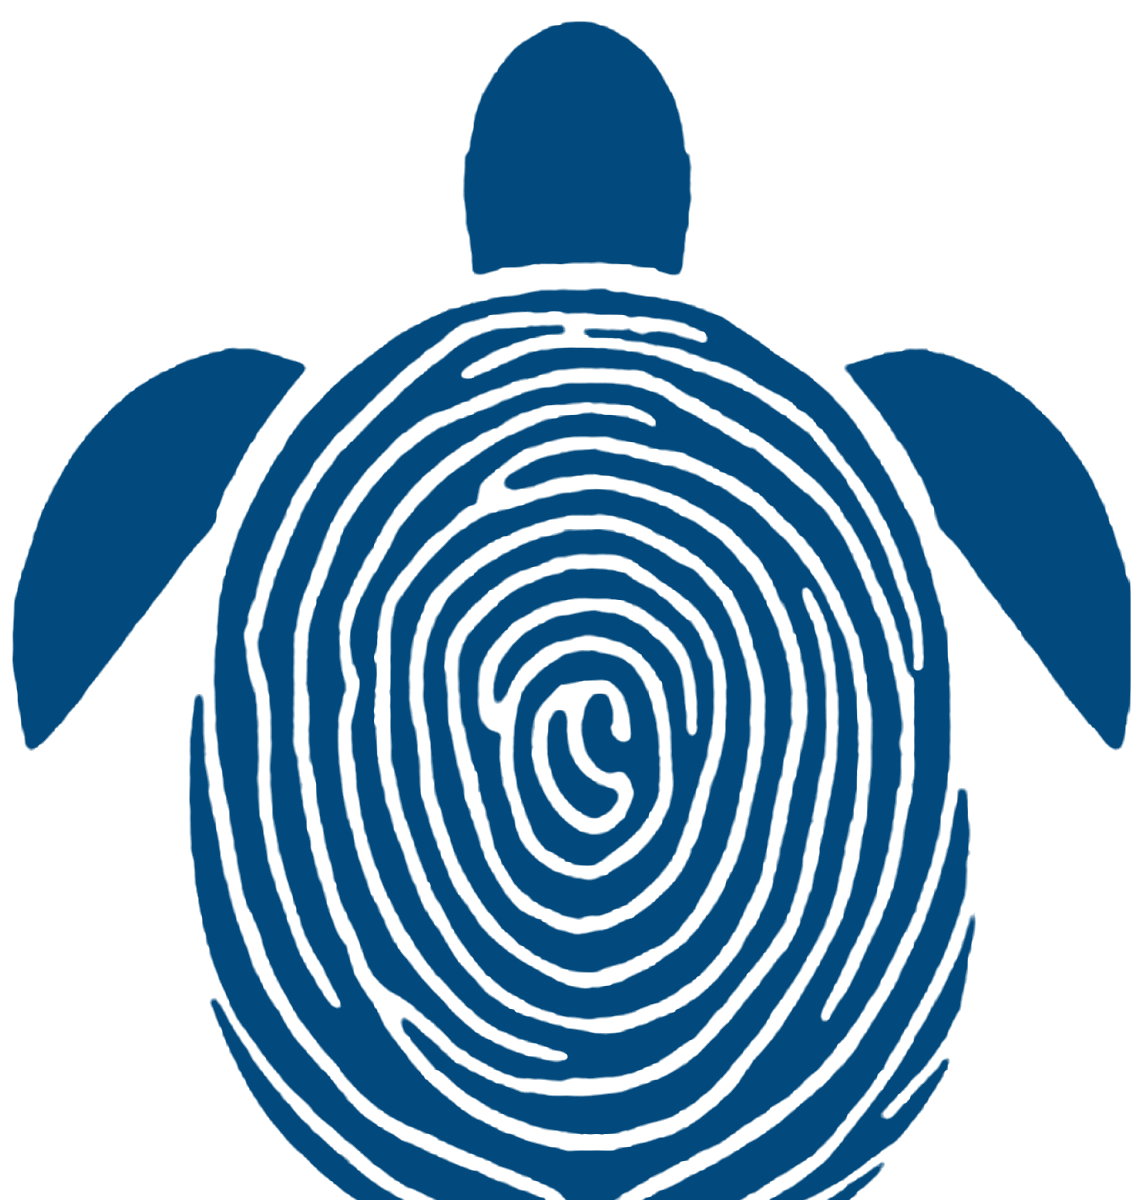
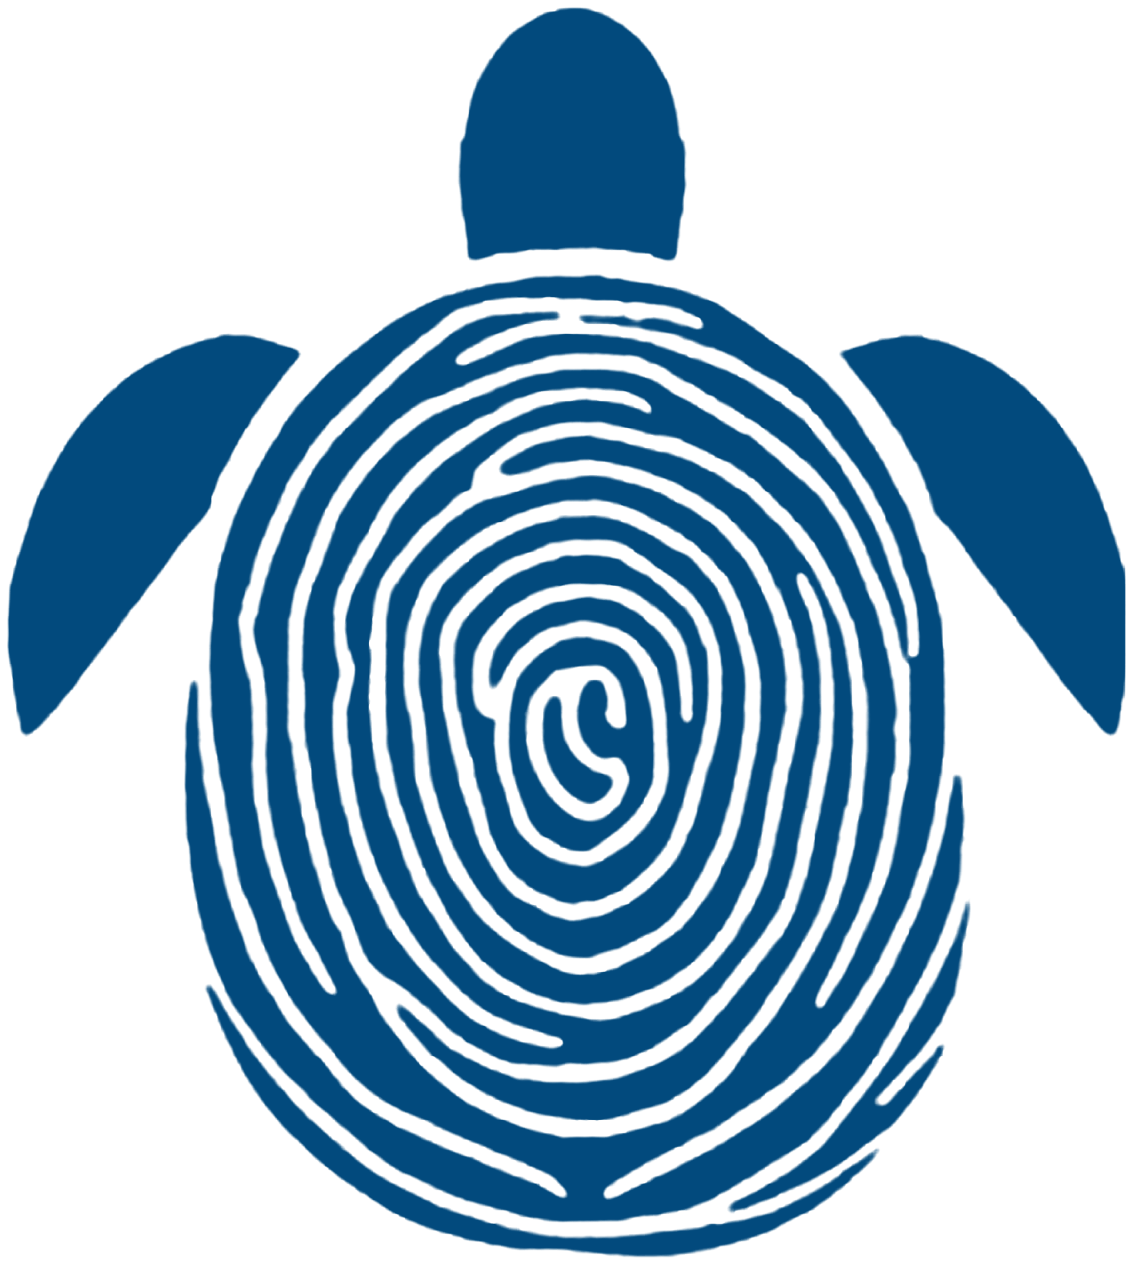
Refactor code structure for improved readability and maintainability

diff --git a/tests/e2e/page.spec.js b/tests/e2e/page.spec.js
@@ -17,7 +17,12 @@ const maxScroll = (page) => page.evaluate(() => document.documentElement.scrollH
 const panelState = (page) => page.evaluate(() => {
   const vh = window.innerHeight;
   const panels = [...document.querySelectorAll('.panel')];
-  const hit = document.elementFromPoint(window.innerWidth / 2, vh / 2)?.closest('.panel');
+  // Punto de muestreo lejos de cualquier borde: con tops fraccionarios el
+  // navegador redondea el píxel y el borde exacto da un resultado ambiguo
+  const edges = panels.flatMap((p) => { const r = p.getBoundingClientRect(); return [r.top, r.bottom]; });
+  let probe = vh / 2;
+  while (edges.some((e) => Math.abs(e - probe) < 2)) probe += 4;
+  const hit = document.elementFromPoint(window.innerWidth / 2, probe)?.closest('.panel');
   return {
     onScreen: panels.filter((p) => {
       const r = p.getBoundingClientRect();
@@ -28,7 +33,7 @@ const panelState = (page) => page.evaluate(() => {
     // El panel de mayor índice que cubre el centro debe ser el que se ve
     expected: panels.reduce((acc, p, i) => {
       const r = p.getBoundingClientRect();
-      return r.top <= vh / 2 && r.bottom >= vh / 2 ? i : acc;
+      return r.top <= probe && r.bottom >= probe ? i : acc;
     }, -1),
   };
 });
@@ -97,6 +102,9 @@ test('no hay scroll horizontal', async ({ page }) => {
 });
 
 test('la pila nunca acumula capas ni pinta un panel en el orden equivocado', async ({ page }) => {
+  // Recorre la página entera a pasos de un tercio de pantalla: en WebKit y con
+  // todos los proyectos en paralelo puede pasar del minuto y medio
+  test.slow();
   const zIndex = await page.$$eval('.panel', (panels) => panels.map((p) => Number(getComputedStyle(p).zIndex)));
   expect(zIndex).toEqual(zIndex.map((_, i) => i + 1));
 
@@ -261,5 +269,123 @@ test('con movimiento reducido no hay transformaciones de pila', async ({ page },
     await scrollToY(page, y);
     const transforms = await page.$$eval('.panel', (panels) => panels.map((p) => p.style.transform).filter(Boolean));
     expect(transforms, `y=${y}`).toEqual([]);
+  }
+});
+
+test('el símbolo de la tortuga se ve entero en todas partes', async ({ page }) => {
+  const selector = 'img[src*="turtle-"], img[src*="wordmark-"]';
+  // Posición de cada imagen con la página arriba, antes de que nada se fije
+  const targets = await page.$$eval(selector, (imgs) => imgs.map((img) => {
+    img.loading = 'eager';
+    const panel = img.closest('.panel');
+    if (!panel) return 0;
+    const top = panel.offsetTop;
+    const inner = img.getBoundingClientRect().top - panel.getBoundingClientRect().top;
+    const room = Math.max(0, panel.offsetHeight - window.innerHeight);
+    // Centra la imagen sin salir del tramo en el que su panel está fijo y entero
+    return top + Math.min(room, Math.max(0, inner - window.innerHeight / 2));
+  }));
+  // Tres símbolos sueltos y cuatro logotipos
+  expect(targets).toHaveLength(7);
+
+  for (const [i, y] of targets.entries()) {
+    await scrollToY(page, y);
+    const { src, edgeAlpha, ratio, clippedBy } = await page.evaluate(async ([sel, n]) => {
+      const img = document.querySelectorAll(sel)[n];
+      await img.decode().catch(() => null);
+
+      // El dibujo no toca ningún borde del archivo: si lo hiciera, estaría recortado
+      const c = document.createElement('canvas');
+      c.width = img.naturalWidth;
+      c.height = img.naturalHeight;
+      const ctx = c.getContext('2d');
+      ctx.drawImage(img, 0, 0);
+      const { width: w, height: h } = c;
+      const edges = [[0, 0, w, 1], [0, h - 1, w, 1], [0, 0, 1, h], [w - 1, 0, 1, h]];
+      const edgeAlpha = Math.max(...edges.map(([x, y, ew, eh]) => {
+        const d = ctx.getImageData(x, y, ew, eh).data;
+        let max = 0;
+        for (let k = 3; k < d.length; k += 4) max = Math.max(max, d[k]);
+        return max;
+      }));
+
+      // Se pinta con su proporción y ningún contenedor con overflow lo corta
+      const r = img.getBoundingClientRect();
+      const visible = r.width > 0 && r.height > 0;
+      const ratio = visible ? (r.width / r.height) / (img.naturalWidth / img.naturalHeight) : 1;
+      const clippedBy = [];
+      for (let el = img.parentElement; visible && el && el !== document.body; el = el.parentElement) {
+        const s = getComputedStyle(el);
+        if (s.overflowX === 'visible' && s.overflowY === 'visible') continue;
+        const b = el.getBoundingClientRect();
+        if (r.left < b.left - 1 || r.right > b.right + 1 || r.top < b.top - 1 || r.bottom > b.bottom + 1) clippedBy.push(el.className);
+      }
+      return { src: img.getAttribute('src'), edgeAlpha, ratio, clippedBy };
+    }, [selector, i]);
+
+    expect(edgeAlpha, src).toBeLessThan(8);
+    // Margen para el redondeo de los iconos pequeños
+    expect(Math.abs(ratio - 1), src).toBeLessThan(0.04);
+    expect(clippedBy, src).toEqual([]);
+  }
+});
+
+test('los materiales muestran sus tres muestras con foto', async ({ page }) => {
+  const cards = page.locator('.material');
+  await expect(cards).toHaveCount(3);
+  await expect(cards.locator('h3')).toHaveText(['PEAD + Residuo marino', 'Lana', 'Filtro de celulosa']);
+  await expect(page.locator('.materials')).not.toContainText('Plástico recuperado');
+  await expect(cards.nth(2)).toContainText('liofilización');
+
+  const top = await page.$eval('.materials', (el) => el.offsetTop);
+  await scrollToY(page, top);
+  const report = await page.evaluate(async () => {
+    const cards = [...document.querySelectorAll('.material')];
+    const imgs = cards.map((c) => c.querySelector('img.material__texture'));
+    for (const img of imgs) img.loading = 'eager';
+    await Promise.all(imgs.map((img) => img?.decode().catch(() => null)));
+    return cards.map((card, i) => {
+      // Medidas de maquetación: la animación de entrada desplaza las tarjetas
+      const box = { left: card.offsetLeft, top: card.offsetTop, width: card.offsetWidth, height: card.offsetHeight };
+      const copy = card.querySelector('.material__copy');
+      const img = imgs[i];
+      return {
+        src: img.getAttribute('src'),
+        loaded: img.naturalWidth > 0,
+        fit: getComputedStyle(img).objectFit,
+        // La foto llena la tarjeta y el texto cabe dentro
+        fills: img.offsetWidth === box.width && img.offsetHeight === box.height,
+        copyInside: copy.offsetTop >= 0 && copy.offsetTop + copy.offsetHeight <= box.height,
+        box,
+      };
+    });
+  });
+
+  expect(report.map((r) => r.src)).toEqual([
+    'assets/img/material-pead.webp',
+    'assets/img/material-wool.webp',
+    'assets/img/material-cellulose.webp',
+  ]);
+  for (const r of report) expect(r).toMatchObject({ loaded: true, fit: 'cover', fills: true, copyInside: true });
+
+  // La lana a la derecha del PEAD y la celulosa a la derecha de la lana (escritorio),
+  // debajo ocupando todo el ancho (tablet) o en una sola columna (móvil)
+  const [pead, wool, cell] = report.map((r) => r.box);
+  const width = page.viewportSize().width;
+  if (width > 760) {
+    expect(wool.top).toBe(pead.top);
+    expect(wool.left).toBeGreaterThan(pead.left);
+  }
+  if (width > 1100) {
+    expect(cell.top).toBe(wool.top);
+    expect(cell.left).toBeGreaterThan(wool.left);
+  } else if (width > 760) {
+    expect(cell.top).toBeGreaterThan(pead.top);
+    expect(cell.left).toBe(pead.left);
+    expect(cell.width).toBeGreaterThan(pead.width * 1.8);
+  } else {
+    expect(new Set([pead.left, wool.left, cell.left]).size).toBe(1);
+    expect(wool.top).toBeGreaterThan(pead.top);
+    expect(cell.top).toBeGreaterThan(wool.top);
   }
 });

diff --git a/index.html b/index.html
@@ -47,7 +47,7 @@
   <header class="nav" id="nav">
     <div class="nav__inner">
       <a href="#top" class="nav__brand" aria-label="N’Orla, inicio">
-        <img src="assets/img/wordmark-blue.png" alt="N’Orla" width="1035" height="300">
+        <img src="assets/img/wordmark-blue.png" alt="N’Orla" width="1026" height="315">
       </a>
       <nav class="nav__links" id="nav-links" aria-label="Secciones">
         <a href="#orilla">La orilla</a>
@@ -69,7 +69,7 @@
       <div class="panel__body hero__inner">
         <div class="hero__copy" data-hero-copy>
           <h1 class="hero__title intro" id="hero-title">
-            <img src="assets/img/wordmark-blue.png" alt="N’Orla" width="1035" height="300">
+            <img src="assets/img/wordmark-blue.png" alt="N’Orla" width="1026" height="315">
           </h1>
           <p class="hero__tag intro">Donde la vida anida</p>
           <p class="hero__lead intro">Una nueva forma de cuidar la&nbsp;orilla.</p>
@@ -162,7 +162,7 @@
         <figure class="care__figure reveal">
           <img src="assets/img/hatchling-hand.webp" alt="Cría de tortuga marina con arena sobre la palma de una mano" loading="lazy">
           <figcaption>
-            <img src="assets/img/turtle-white.png" alt="" width="1140" height="1200" loading="lazy">
+            <img src="assets/img/turtle-white.png" alt="" width="1133" height="1264" loading="lazy">
             Especialmente donde la vida anida.
           </figcaption>
         </figure>
@@ -201,7 +201,7 @@
             <li data-node style="--a:4"><span>N’Orla</span></li>
           </ol>
           <div class="ring__center">
-            <img src="assets/img/turtle-white.png" alt="" width="1140" height="1200">
+            <img src="assets/img/turtle-white.png" alt="" width="1133" height="1264">
             <div class="ring__captions">
               <p data-caption>Donde todo empieza.</p>
               <p data-caption>Lo que el mar devuelve.</p>
@@ -225,40 +225,25 @@
           <p class="section-head__body reveal">N’Orla busca reducir la incorporación de materiales nuevos y aprovechar aquellos que ya existen en el entorno.</p>
         </header>
         <div class="materials__grid">
-          <article class="material material--plastic reveal">
-            <svg class="material__texture" aria-hidden="true" preserveAspectRatio="none">
-              <filter id="tex-plastic" x="0" y="0" width="100%" height="100%" color-interpolation-filters="sRGB">
-                <feTurbulence type="fractalNoise" baseFrequency="0.009 0.02" numOctaves="5" seed="11"/>
-                <feColorMatrix type="matrix" values="0 0 0 0 0.12  0 0 0 0 0.47  0 0 0 0 0.78  9 0 0 0 -4.3"/>
-              </filter>
-              <filter id="tex-plastic-2" x="0" y="0" width="100%" height="100%" color-interpolation-filters="sRGB">
-                <feTurbulence type="fractalNoise" baseFrequency="0.026 0.045" numOctaves="4" seed="4"/>
-                <feColorMatrix type="matrix" values="0 0 0 0 0.55  0 0 0 0 0.73  0 0 0 0 0.9  0 7 0 0 -3.3"/>
-              </filter>
-              <rect width="100%" height="100%" fill="#eef1f4"/>
-              <rect width="100%" height="100%" style="filter:url(#tex-plastic-2)"/>
-              <rect width="100%" height="100%" style="filter:url(#tex-plastic)"/>
-            </svg>
+          <article class="material material--pead reveal">
+            <img class="material__texture" src="assets/img/material-pead.webp" alt="Muestra de panel de PEAD con residuo marino: plástico blanco con vetas azules" width="438" height="505" loading="lazy">
             <div class="material__copy">
-              <h3>Plástico recuperado</h3>
+              <h3>PEAD + Residuo marino</h3>
               <p>Utilizado en la estructura del sistema a partir de residuos recogidos en las propias playas.</p>
             </div>
           </article>
           <article class="material material--wool reveal">
-            <svg class="material__texture" aria-hidden="true" preserveAspectRatio="none">
-              <filter id="tex-wool" x="0" y="0" width="100%" height="100%">
-                <feTurbulence type="turbulence" baseFrequency="0.012 0.045" numOctaves="4" seed="3" result="n"/>
-                <feDiffuseLighting in="n" surfaceScale="3.2" lighting-color="#fbf4e8" result="l">
-                  <feDistantLight azimuth="235" elevation="48"/>
-                </feDiffuseLighting>
-                <feComposite in="l" in2="SourceGraphic" operator="in"/>
-              </filter>
-              <rect width="100%" height="100%" fill="#e9dfcf"/>
-              <rect width="100%" height="100%" fill="#000" style="filter:url(#tex-wool)" opacity=".9"/>
-            </svg>
+            <img class="material__texture" src="assets/img/material-wool.webp" alt="Lana natural sin procesar vista de cerca" width="1400" height="932" loading="lazy">
             <div class="material__copy">
               <h3>Lana</h3>
               <p>Material natural empleado en el sistema de filtrado por sus propiedades de retención y su carácter renovable.</p>
+            </div>
+          </article>
+          <article class="material material--cellulose reveal">
+            <img class="material__texture" src="assets/img/material-cellulose.webp" alt="Muestra circular de filtro de celulosa sujeta con guantes de laboratorio" width="900" height="1600" loading="lazy">
+            <div class="material__copy">
+              <h3>Filtro de celulosa</h3>
+              <p>Otra vía de investigación: un filtro desarrollado en laboratorio a partir de celulosa y biopolímeros como PLA o PHB, que refuerzan su aguante al agua. Mediante liofilización se genera una estructura porosa que favorece la retención de microplásticos.</p>
             </div>
           </article>
         </div>
@@ -312,12 +297,12 @@
       <div class="panel__body identity__inner">
         <div class="identity__mark reveal">
           <div class="ridges ridges--halo" data-ridges="7" aria-hidden="true"></div>
-          <img src="assets/img/turtle-blue.png" alt="Símbolo de N’Orla: una huella dactilar con forma de tortuga" width="1140" height="1200" loading="lazy">
+          <img src="assets/img/turtle-blue.png" alt="Símbolo de N’Orla: una huella dactilar con forma de tortuga" width="1133" height="1264" loading="lazy">
         </div>
         <div class="identity__copy">
           <p class="eyebrow reveal">08 — La identidad</p>
           <h2 id="identity-title" class="identity__logo reveal">
-            <img src="assets/img/wordmark-blue.png" alt="N’Orla" width="1035" height="300" loading="lazy">
+            <img src="assets/img/wordmark-blue.png" alt="N’Orla" width="1026" height="315" loading="lazy">
           </h2>
           <p class="identity__tag reveal">Donde la vida anida.</p>
           <div class="identity__cols">
@@ -339,7 +324,7 @@
           <span class="reveal closing__second">Necesita cuidado.</span>
         </h2>
         <div class="closing__brand reveal">
-          <img src="assets/img/wordmark-white.png" alt="N’Orla" width="1035" height="300" loading="lazy">
+          <img src="assets/img/wordmark-white.png" alt="N’Orla" width="1026" height="315" loading="lazy">
           <p>Donde la vida anida.</p>
         </div>
       </div>

diff --git a/playwright.config.js b/playwright.config.js
@@ -14,6 +14,12 @@ const CHROME = [
   '/Applications/Google Chrome.app/Contents/MacOS/Google Chrome',
   '/usr/bin/google-chrome',
 ].some(existsSync);
+const EDGE = [
+  'C:/Program Files (x86)/Microsoft/Edge/Application/msedge.exe',
+  'C:/Program Files/Microsoft/Edge/Application/msedge.exe',
+  '/Applications/Microsoft Edge.app/Contents/MacOS/Microsoft Edge',
+  '/usr/bin/microsoft-edge',
+].some(existsSync);
 
 const desktop = { viewport: { width: 1440, height: 900 } };
 
@@ -36,25 +42,35 @@ export default defineConfig({
     { name: 'iphone', use: { ...devices['iPhone 13'] } },
     { name: 'iphone-se', use: { ...devices['iPhone SE'] } },
     { name: 'ipad', use: { ...devices['iPad (gen 7)'] } },
+    { name: 'ipad-landscape', use: { ...devices['iPad (gen 7) landscape'] } },
+    { name: 'ipad-pro', use: { ...devices['iPad Pro 11'] } },
     { name: 'safari-desktop', use: { ...devices['Desktop Safari'], ...desktop } },
 
     // Chrome y derivados (Chromium)
     { name: 'android', use: { ...devices['Pixel 7'] } },
     { name: 'android-landscape', use: { ...devices['Pixel 7 landscape'] } },
+    { name: 'android-tablet', use: { ...devices['Galaxy Tab S4'] } },
+    { name: 'android-tablet-landscape', use: { ...devices['Galaxy Tab S9 landscape'] } },
     { name: 'desktop', use: { ...devices['Desktop Chrome'], ...desktop } },
 
     // Firefox (Gecko): sin emulación móvil, solo el tamaño
     { name: 'firefox-desktop', use: { ...devices['Desktop Firefox'], ...desktop } },
+    { name: 'firefox-tablet', use: { ...devices['Desktop Firefox'], viewport: { width: 820, height: 1180 } } },
     { name: 'firefox-narrow', use: { ...devices['Desktop Firefox'], viewport: { width: 390, height: 844 } } },
 
     { name: 'reduced-motion', use: { ...devices['iPhone 13'], reducedMotion: 'reduce' } },
 
     ...(CHROME ? [
       { name: 'chrome-real', use: { ...devices['Pixel 7'], channel: 'chrome' } },
+      { name: 'chrome-real-tablet', use: { ...devices['Galaxy Tab S4'], channel: 'chrome' } },
+      { name: 'chrome-real-desktop', use: { ...devices['Desktop Chrome'], ...desktop, channel: 'chrome' } },
     ] : []),
     ...(BRAVE ? [
       { name: 'brave-real', use: { ...devices['Pixel 7'], launchOptions: { executablePath: BRAVE } } },
       { name: 'brave-real-desktop', use: { ...devices['Desktop Chrome'], ...desktop, launchOptions: { executablePath: BRAVE } } },
+    ] : []),
+    ...(EDGE ? [
+      { name: 'edge-real-desktop', use: { ...devices['Desktop Edge'], ...desktop, channel: 'msedge' } },
     ] : []),
   ],
 });

diff --git a/css/sections/materials.css b/css/sections/materials.css
@@ -4,7 +4,7 @@
 .materials__grid {
   margin-top: clamp(40px, 7vh, 72px);
   display: grid;
-  grid-template-columns: repeat(2, minmax(0, 1fr));
+  grid-template-columns: repeat(3, minmax(0, 1fr));
   gap: 20px;
 }
 .material {
@@ -18,11 +18,13 @@
   box-shadow: 0 2px 4px rgba(0, 0, 0, 0.03), 0 20px 50px rgba(0, 0, 0, 0.07);
 }
 .material:nth-child(2) { --d: 120ms; }
+.material:nth-child(3) { --d: 240ms; }
 .material__texture {
   position: absolute;
   inset: 0;
   width: 100%;
   height: 100%;
+  object-fit: cover;
   z-index: -1;
   transition: transform 1400ms var(--ease-out);
 }
@@ -33,13 +35,15 @@
   width: 100%;
   padding: 120px 32px 32px;
 }
-.material--plastic .material__copy { background: linear-gradient(to top, rgba(3, 24, 42, 0.72), transparent); color: #fff; }
-.material--plastic .material__copy p { color: rgba(255, 255, 255, 0.85); }
+.material--pead .material__copy,
+.material--cellulose .material__copy { background: linear-gradient(to top, rgba(3, 24, 42, 0.78), transparent); color: #fff; }
+.material--pead .material__copy p,
+.material--cellulose .material__copy p { color: rgba(255, 255, 255, 0.88); }
 .material--wool .material__copy { background: linear-gradient(to top, rgba(251, 246, 238, 0.95), transparent); }
 .material--wool .material__copy p { color: #5e574d; }
 .material h3 {
   font-family: var(--font-display);
-  font-size: clamp(1.75rem, 3vw, 2.5rem);
+  font-size: clamp(1.625rem, 2.4vw, 2.25rem);
   line-height: 1.05;
   letter-spacing: -0.03em;
   font-weight: 700;
@@ -50,8 +54,14 @@
   font-size: 1.0625rem;
   line-height: 1.47;
 }
+@media (max-width: 1100px) {
+  .materials__grid { grid-template-columns: repeat(2, minmax(0, 1fr)); }
+  .material--cellulose { grid-column: 1 / -1; min-height: clamp(340px, 36vh, 440px); }
+  .material--cellulose .material__texture { object-position: center 40%; }
+}
 @media (max-width: 760px) {
   .materials__grid { grid-template-columns: 1fr; gap: 16px; }
   .material { min-height: 340px; }
+  .material--cellulose { grid-column: auto; min-height: 340px; }
   .material__copy { padding: 100px 24px 26px; }
 }

diff --git a/css/layout.css b/css/layout.css
@@ -27,7 +27,7 @@
   align-items: center;
   gap: 32px;
 }
-.nav__brand img { height: 20px; width: auto; transition: filter 400ms ease; }
+.nav__brand img { height: 21px; width: auto; transition: filter 400ms ease; }
 .nav__links {
   display: flex;
   gap: 30px;

diff --git a/README.md b/README.md
@@ -44,7 +44,7 @@ Una página única construida como una pila de paneles que avanzan con el scroll
 | 02 Herramienta | Despiece animado a partir de los renders: piezas, modo cribar, modo filtrar y montaje final |
 | 03 Diseñada para no invadir | Por qué una herramienta manual frente a la limpieza mecanizada |
 | 04 Del residuo al recurso | Diagrama circular del ciclo playa → residuo → recogida → transformación → N’Orla |
-| 05 Materiales | Plástico recuperado y lana, con texturas generadas con filtros SVG |
+| 05 Materiales | PEAD + residuo marino, lana y filtro de celulosa, con fotos de las muestras |
 | 06 Para quién | Voluntarios, ONG, equipos de limpieza y comunidades locales |
 | 07 El origen | Cabo Verde, la pregunta que guía el proyecto y la identidad visual |
 
